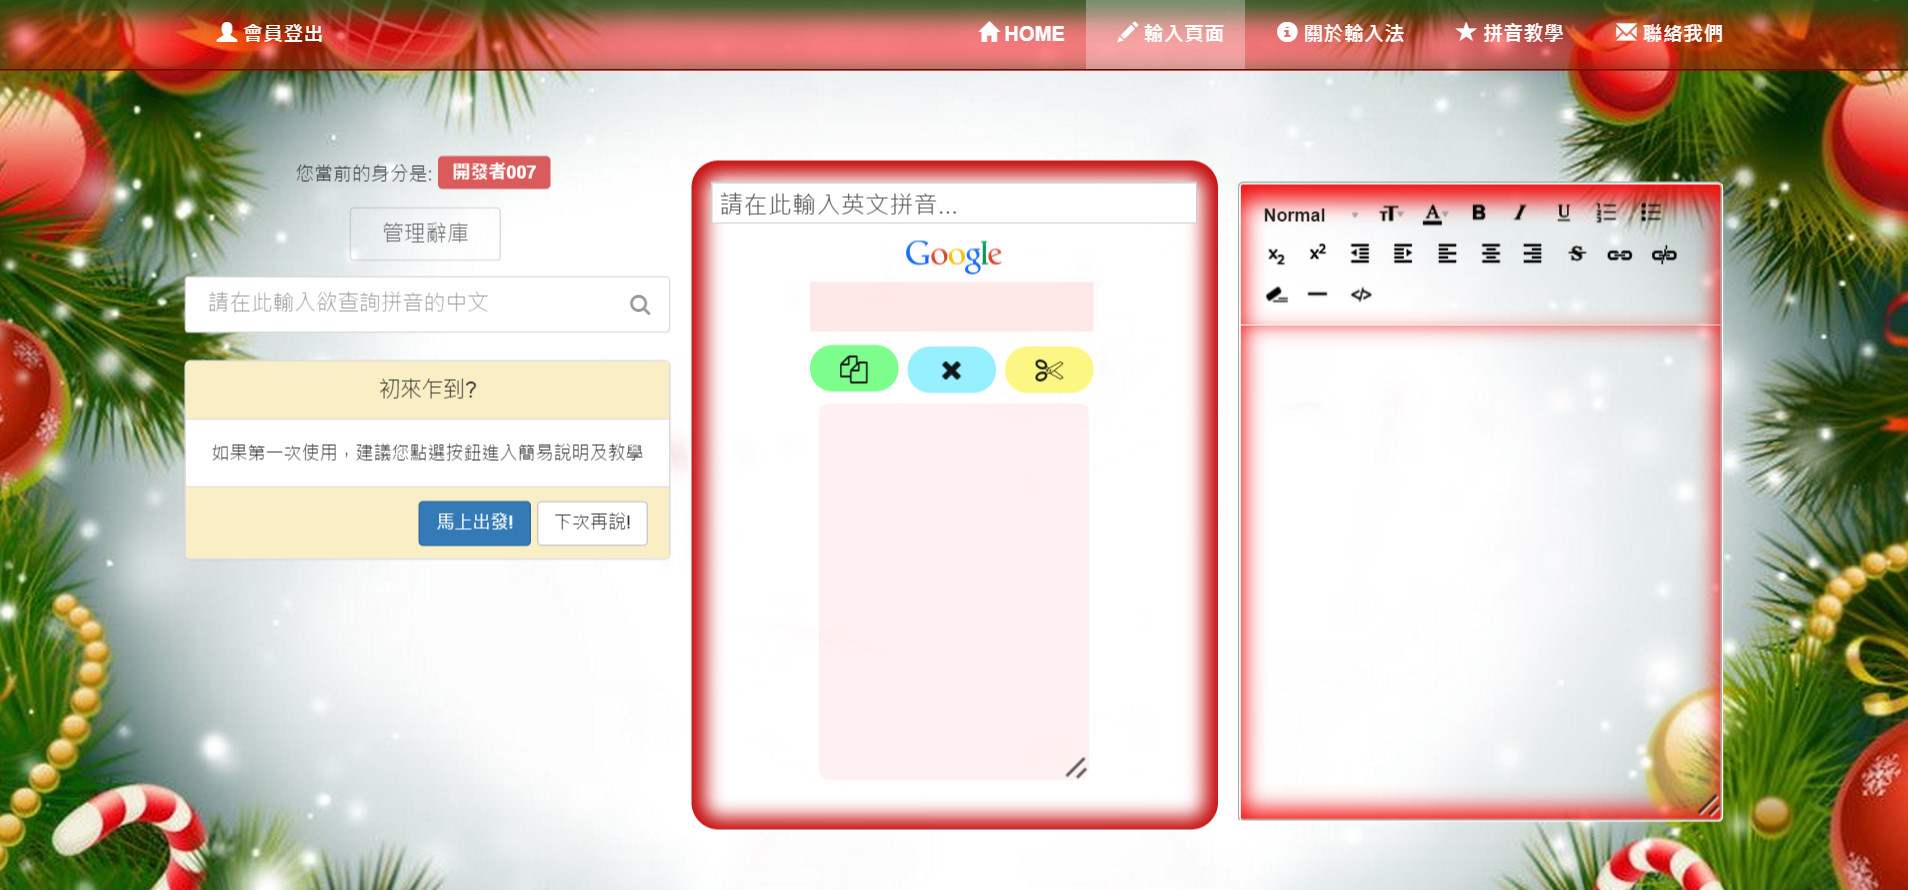
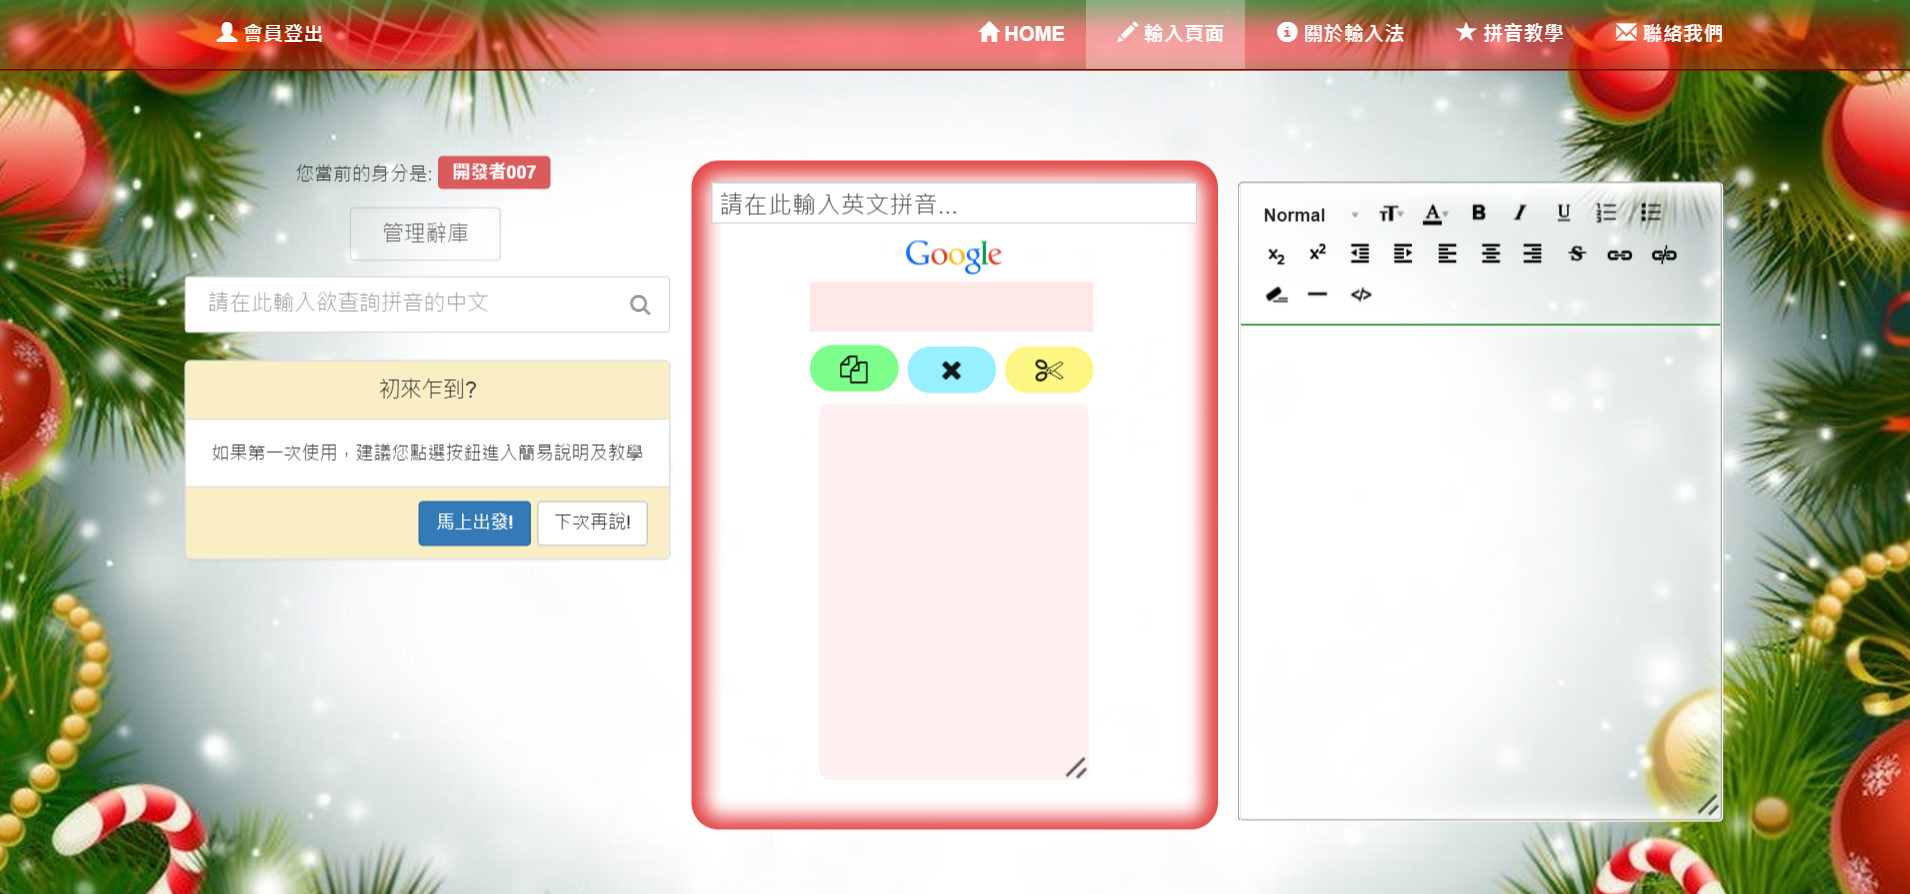
123

diff --git a/public/css/theme_green.css b/public/css/theme_green.css
@@ -3,8 +3,8 @@ body {
 	background: url(green_back.jpg) no-repeat center center fixed;
 	/*common*/
 	-webkit-background-size: cover;
-  	-moz-background-size: cover;
-  	-o-background-size: cover;
+  -moz-background-size: cover;
+  -o-background-size: cover;
  	background-size: cover;
 	font-family: Arial, "文泉驛正黑", "WenQuanYi Zen Hei", "微軟正黑體", "Microsoft JhengHei", "標楷體", DFKai-SB, 
 				 sans-serif;
@@ -34,11 +34,11 @@ body {
 	-moz-box-shadow: inset 0px -8px 25px 8px rgba(147, 244, 136, 0.9);
 	/*common*/
 	position: absolute;
-  	padding-top: 10px;
-  	bottom: 40px;
-  	width: 100%;
-  	height: 70px;
-  	display: block;
+	padding-top: 10px;
+	bottom: 40px;
+	width: 100%;
+	height: 70px;
+	display: block;
 }
 
 #footer_flat {

diff --git a/public/js/pinyin_algorithm.js b/public/js/pinyin_algorithm.js
@@ -2931,7 +2931,7 @@
 			}
 		} 
 		else if (theme == "green"){
-			static_color = "rgb(95, 37, 11)";
+			static_color = "rgb(71, 125, 210)";
 			for(var i = 0; i < nav_arr_len; i++){
 				$(nav_arr[i]).css('color',static_color);
 				(function(i){

diff --git a/public/css/modify.css b/public/css/modify.css
@@ -13,7 +13,6 @@ html, body{
 
 .nav > li > a {
   	padding-left: 24px;
-  	color: #E92428;
   	font-size: 15px;
   	font-weight: bold;
 }
